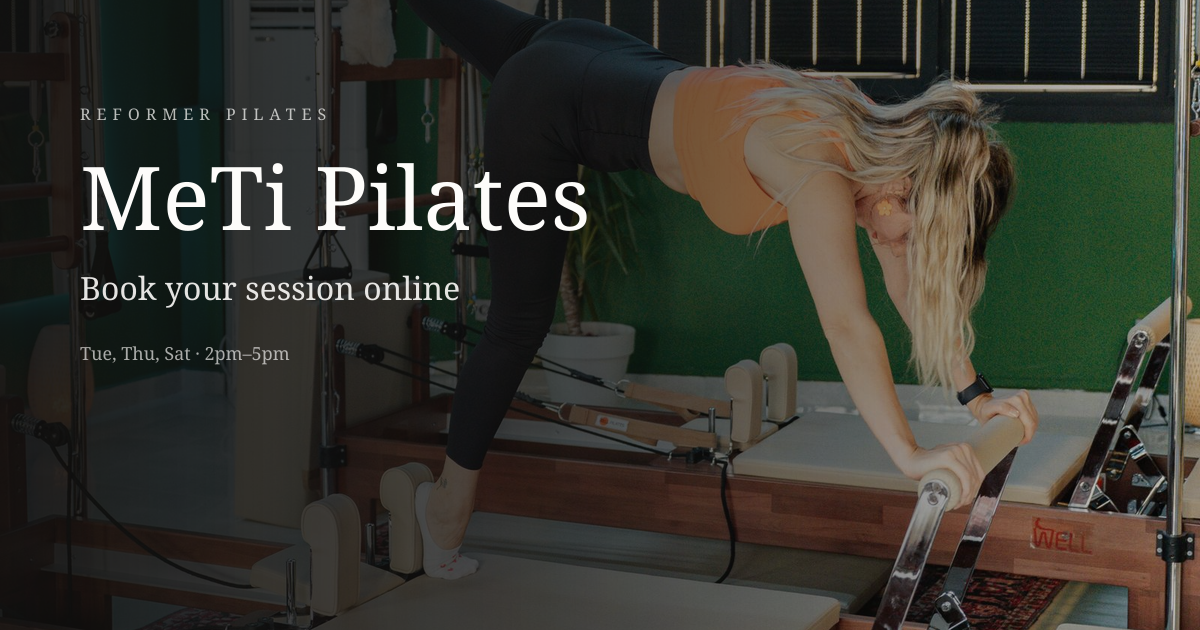
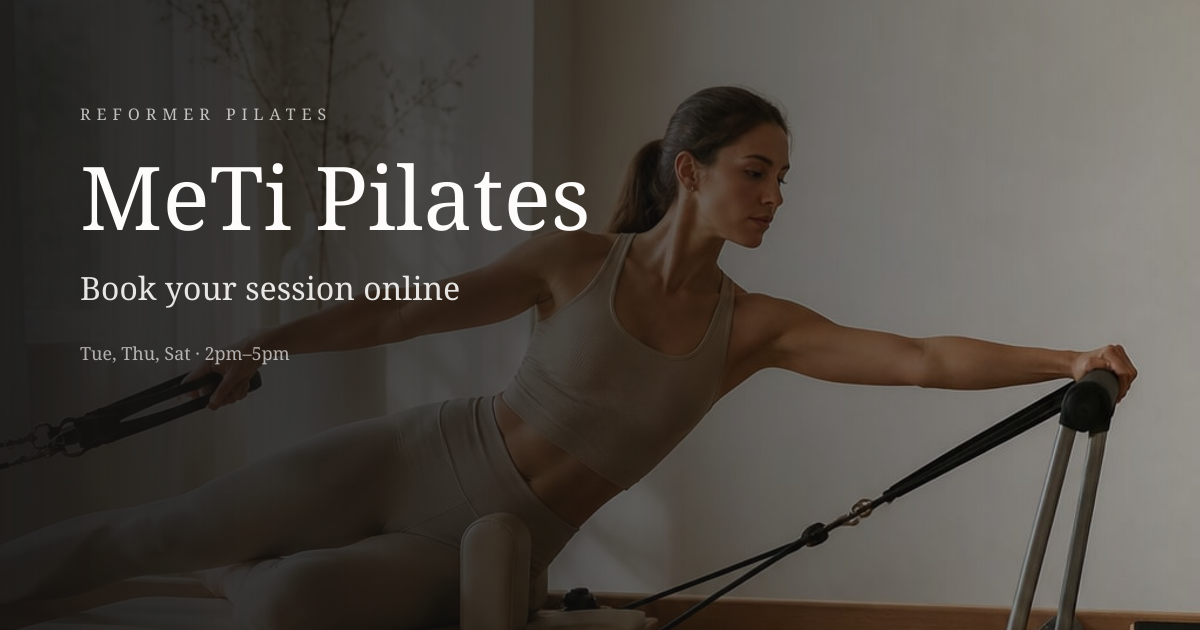
feat: aesthetic reformer studio hero and session images

diff --git a/scripts/sync-bundled-images.ts b/scripts/sync-bundled-images.ts
@@ -1,0 +1,45 @@
+#!/usr/bin/env tsx
+/**
+ * Point studio CMS at bundled hero/reformer images (after image file updates).
+ * Usage: pnpm exec tsx scripts/sync-bundled-images.ts
+ */
+import { config } from "dotenv";
+import { resolve } from "path";
+import { siteConfig } from "../src/lib/site-config";
+import { buildDefaultStudioContent, normalizeStudioContent } from "../src/lib/studio-content";
+
+config({ path: resolve(__dirname, "../.env") });
+
+async function main() {
+  const { prisma } = await import("../src/lib/prisma");
+  const defaults = buildDefaultStudioContent();
+  const row = await prisma.studioContent.findUnique({ where: { id: "default" } });
+
+  if (!row) {
+    console.log("No studio_content row — seed will set images on first run.");
+    await prisma.$disconnect();
+    return;
+  }
+
+  const current = normalizeStudioContent(row.data);
+  const next = {
+    ...current,
+    heroImage: siteConfig.images.hero,
+    reformerImage: siteConfig.images.reformer,
+  };
+
+  await prisma.studioContent.update({
+    where: { id: "default" },
+    data: { data: next },
+  });
+
+  console.log("Updated studio images:");
+  console.log(`  hero: ${next.heroImage}`);
+  console.log(`  reformer: ${next.reformerImage}`);
+  await prisma.$disconnect();
+}
+
+main().catch((err) => {
+  console.error(err);
+  process.exit(1);
+});

diff --git a/src/i18n/locales/el.ts b/src/i18n/locales/el.ts
@@ -19,7 +19,7 @@ const el: Messages = {
       "Reformer pilates με βάση τη φυσιοθεραπεία σε μικρά τμήματα — εξατομικευμένη φροντίδα, ασφαλής κίνηση και διαρκή αποτελέσματα.",
     bookSession: "Κράτηση μαθήματος",
     viewSessions: "Λεπτομέρειες",
-    imageAlt: "Ασκούμενη σε μηχάνημα reformer pilates σε φωτεινό στούντιο",
+    imageAlt: "Μάθημα reformer pilates σε φωτεινό, μινιμαλιστικό στούντιο",
   },
   about: {
     title: "Σχετικά με εμάς | Μερόπη Τίρρη",

diff --git a/src/i18n/locales/en.ts b/src/i18n/locales/en.ts
@@ -19,7 +19,7 @@ const en: Messages = {
       "Physiotherapy-based reformer pilates in small groups — personalized care, safe movement, and lasting results.",
     bookSession: "Book reformer",
     viewSessions: "View details",
-    imageAlt: "Woman on a reformer pilates machine in a bright studio",
+    imageAlt: "Pilates reformer session in a bright minimalist studio",
   },
   about: {
     title: "About us | Meropi Tirri",
